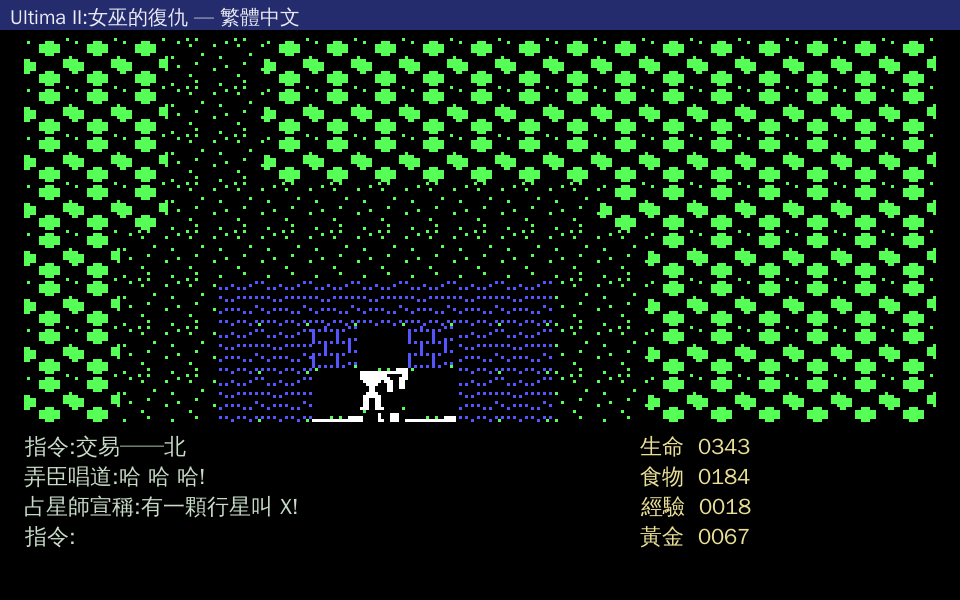
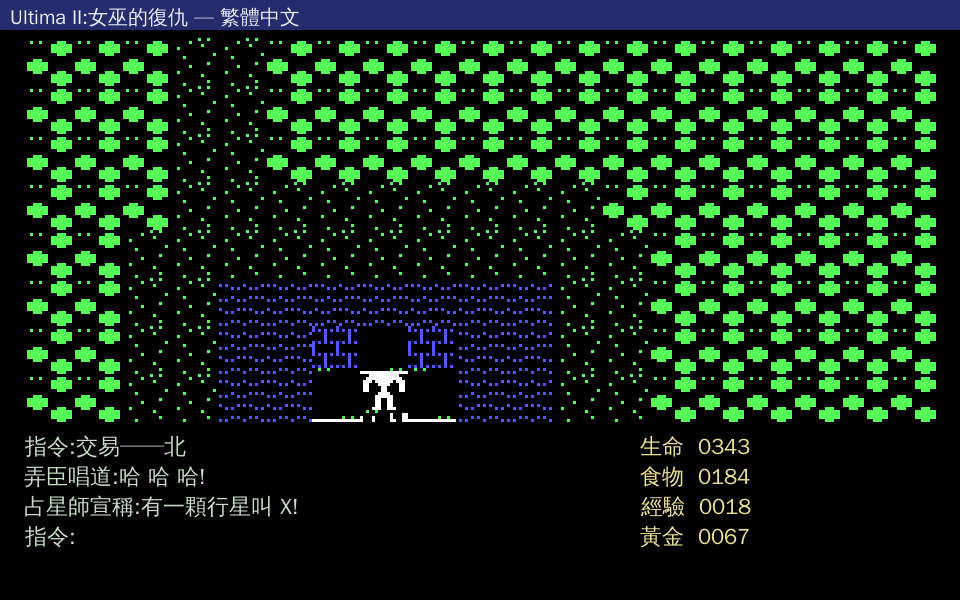
修正 tile 對位:base offset 0x7C43 → 0x7C42 (sprite 水平左移 4px)
- 對照 ultima2.voyd.net reference 圖,發現 sprite 整體左移 4px (1 byte)
  ModdingWiki 標 0x7C43 實測偏移;人形底部有 bleed、字母左偏
- 校正 base = 0x7C42:人形/樹/水對齊 reference,bleed 消失
- extract_tiles.py 預設改 0x7C42 (env U2_TILE_BASE 可覆寫);render_map.py 同步
- 重生 poc / 移動驗證截圖;DATA_FORMATS 記校正
- 字母區 (tile 33+,招牌) 在 0x7C42 仍不一致,font 子區塊另案

diff --git a/tools/extract_tiles.py b/tools/extract_tiles.py
@@ -18,10 +18,12 @@ CGA 調色盤 (對應 Alderson Win port 三組):
 
 注意:tile 美術屬 Origin/EA 版權,輸出 PNG **不散布**;請自備合法 Ultima II。
 """
+import os
 import sys
 from PIL import Image
 
-TILE_BASE = 0x7C43
+# tile 資料在 ultimaii.exe 的起始 offset。可用環境變數 U2_TILE_BASE 覆寫測試。
+TILE_BASE = int(os.environ.get("U2_TILE_BASE", "0x7C42"), 0)
 N_TILES = 64
 
 PALETTES = {

diff --git a/tools/render_map.py b/tools/render_map.py
@@ -17,7 +17,7 @@ PALETTES = {
 
 
 def decode_tile(exe, idx, pal):
-    off = 0x7C43 + idx * 64
+    off = 0x7C42 + idx * 64
     im = Image.new("RGB", (16, 16))
     for y in range(16):
         for xb in range(4):

diff --git a/docs/DATA_FORMATS.md b/docs/DATA_FORMATS.md
@@ -25,7 +25,9 @@
 - tile 圖塊嵌在 `ultimaii.exe`(DOS **@offset 0x7C43 = 31811**);Win 版用自家 tileset + `Font.txt`。
 
 ## tile 美術格式 ✅(已破解,task #5)
-- 位置:`ultimaii.exe` **@0x7C43**,**64 個 tile**,每 tile **16×16**。
+- 位置:`ultimaii.exe` **@0x7C42**,**64 個 tile**,每 tile **16×16**。
+  - ⚠ 校正:ModdingWiki 標 31811(0x7C43),實測 sprite 會**水平左移 4px**(人形底部出現 bleed);正確 base 為 **0x7C42**(對照 ultima2.voyd.net reference 圖,字母/人形置中、無 bleed)。可用 env `U2_TILE_BASE` 覆寫。
+  - 仍待釐清:字母區(tile ~33+,招牌用)在 0x7C42 仍有不一致,font 子區塊對齊另案處理。
 - 編碼:**CGA Linear 2bpp** —— 4 px/byte,bit7-6=最左像素、bit5-4 次之…bit1-0=最右。**64 byte/tile**。
 - map 的 `tile_id`(byte÷4)直接索引此表 0..63。
 - 配置:tile ~0–31 為地形/物件(0=洋紅海洋、青色森林、城堡、人形 NPC…),**~32+ 為字符集**(A–Z 等,地圖招牌文字用)。
